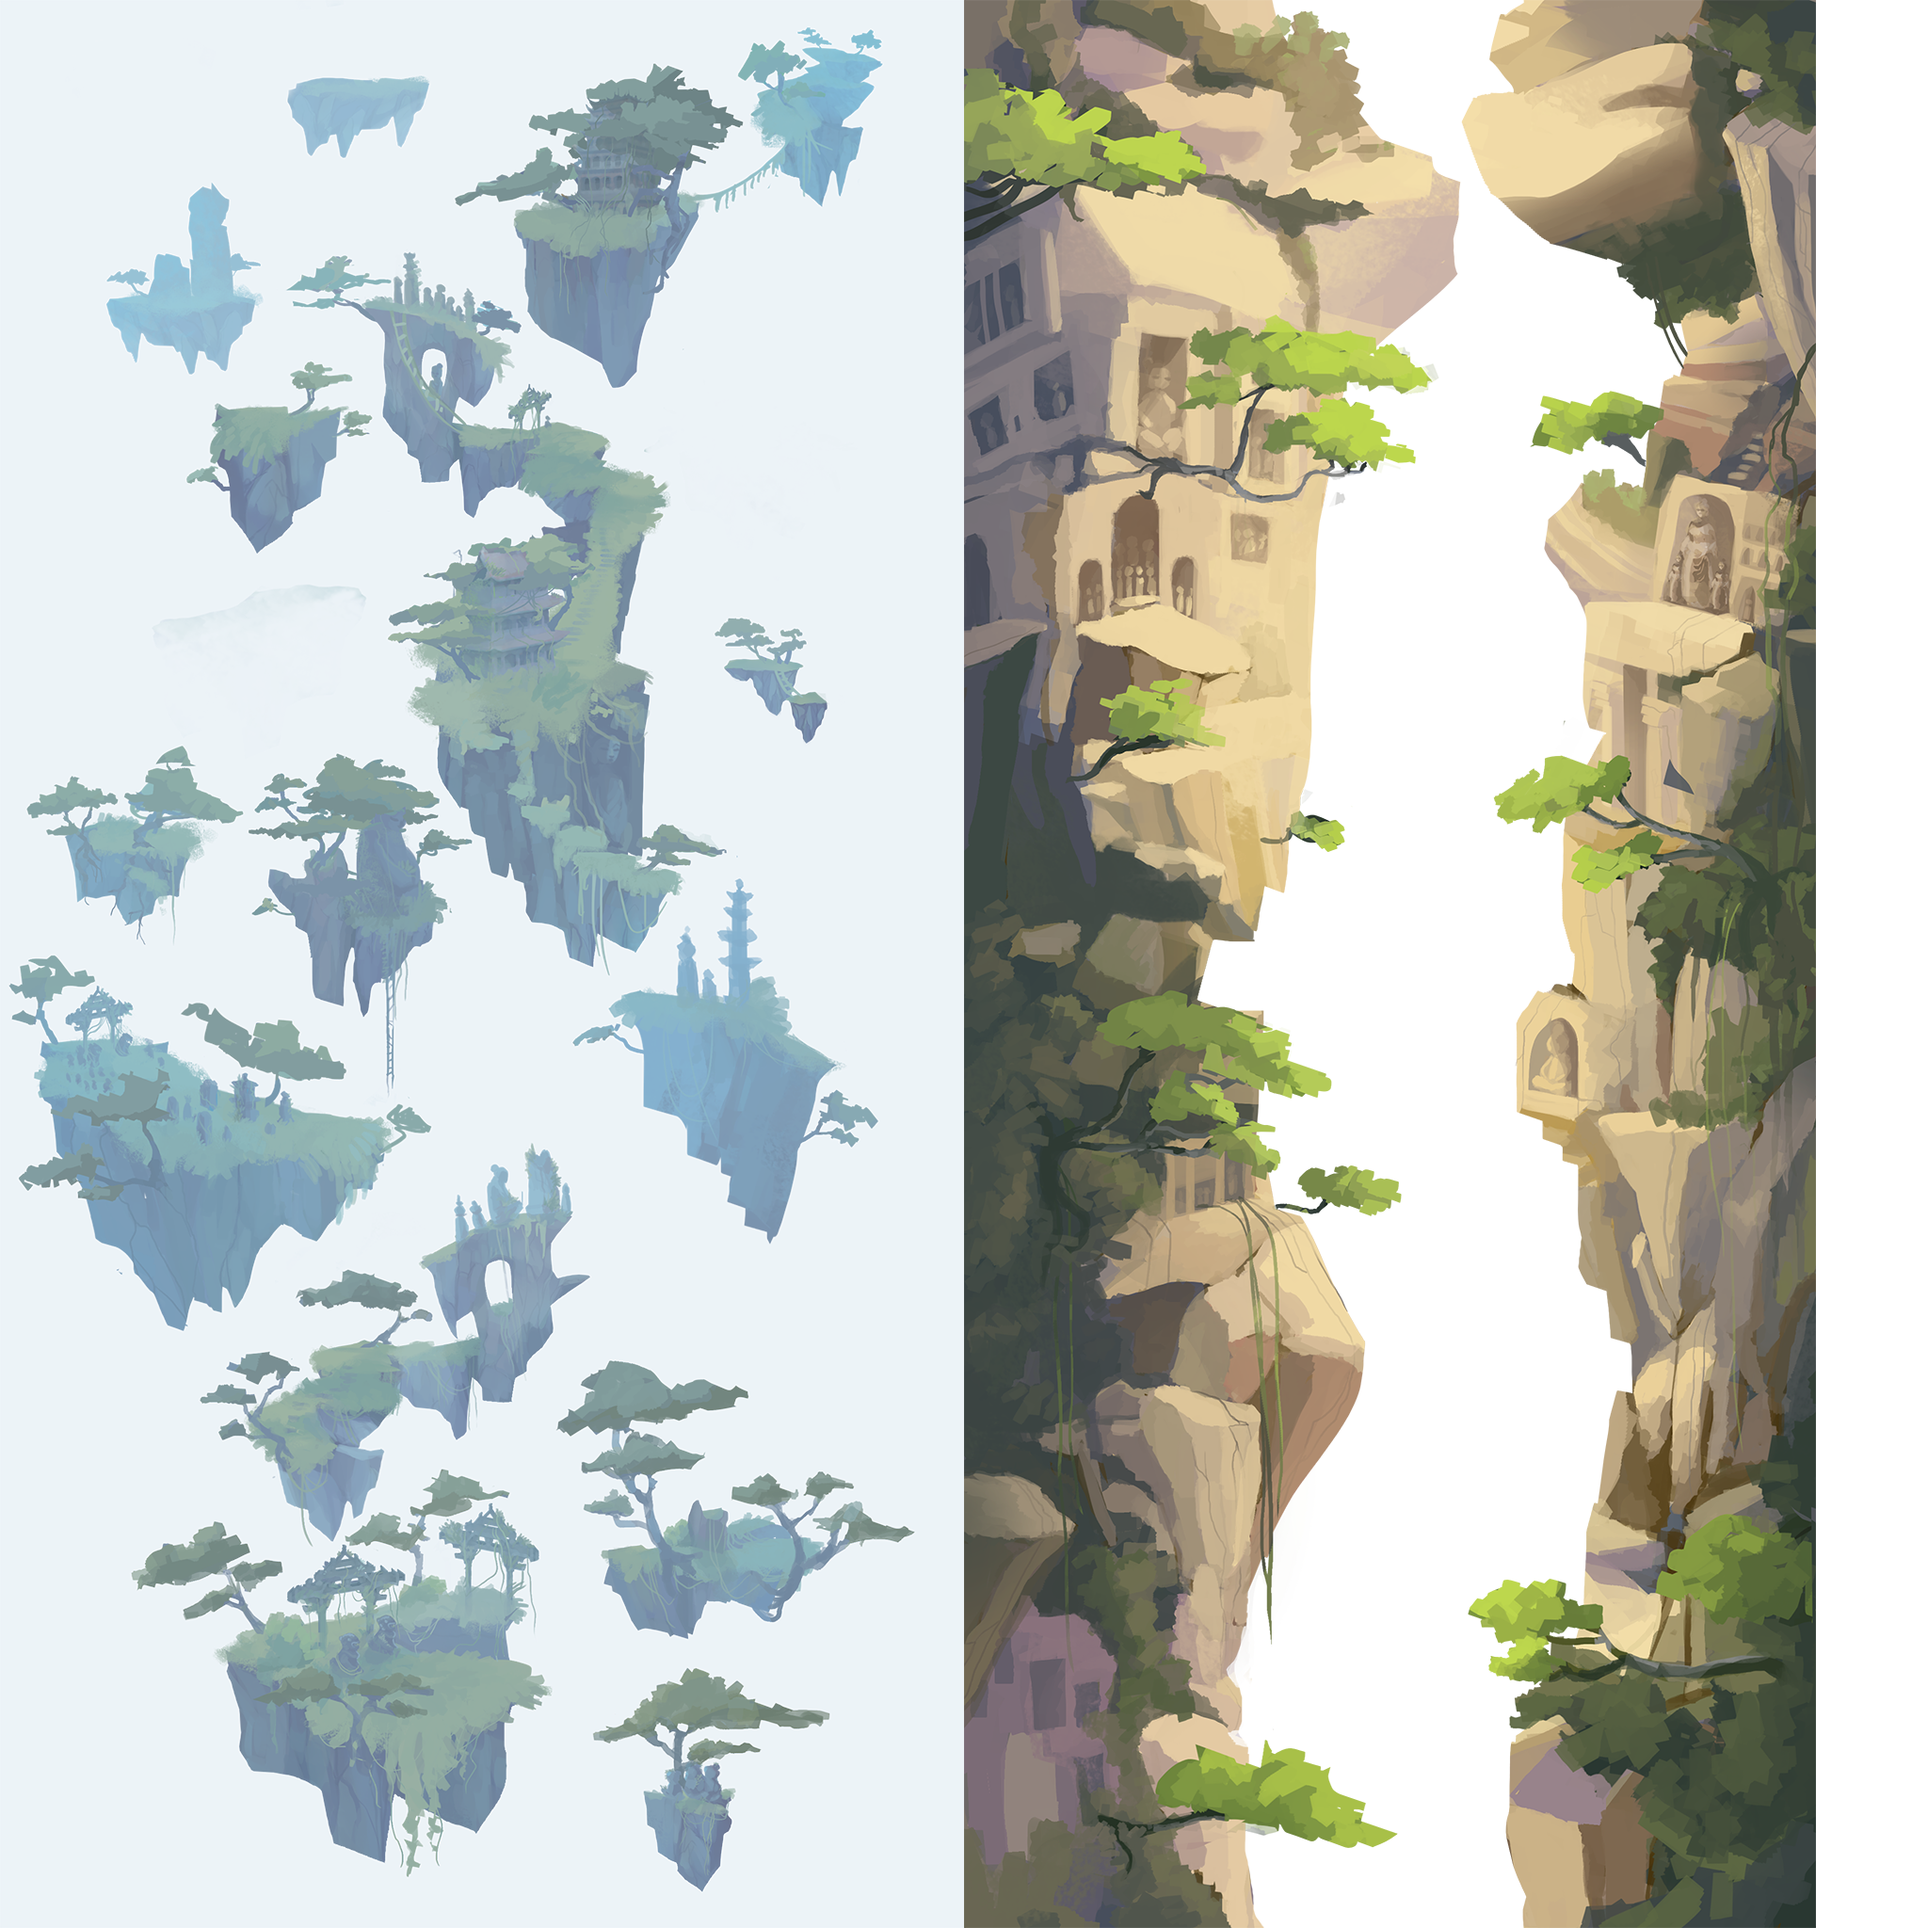
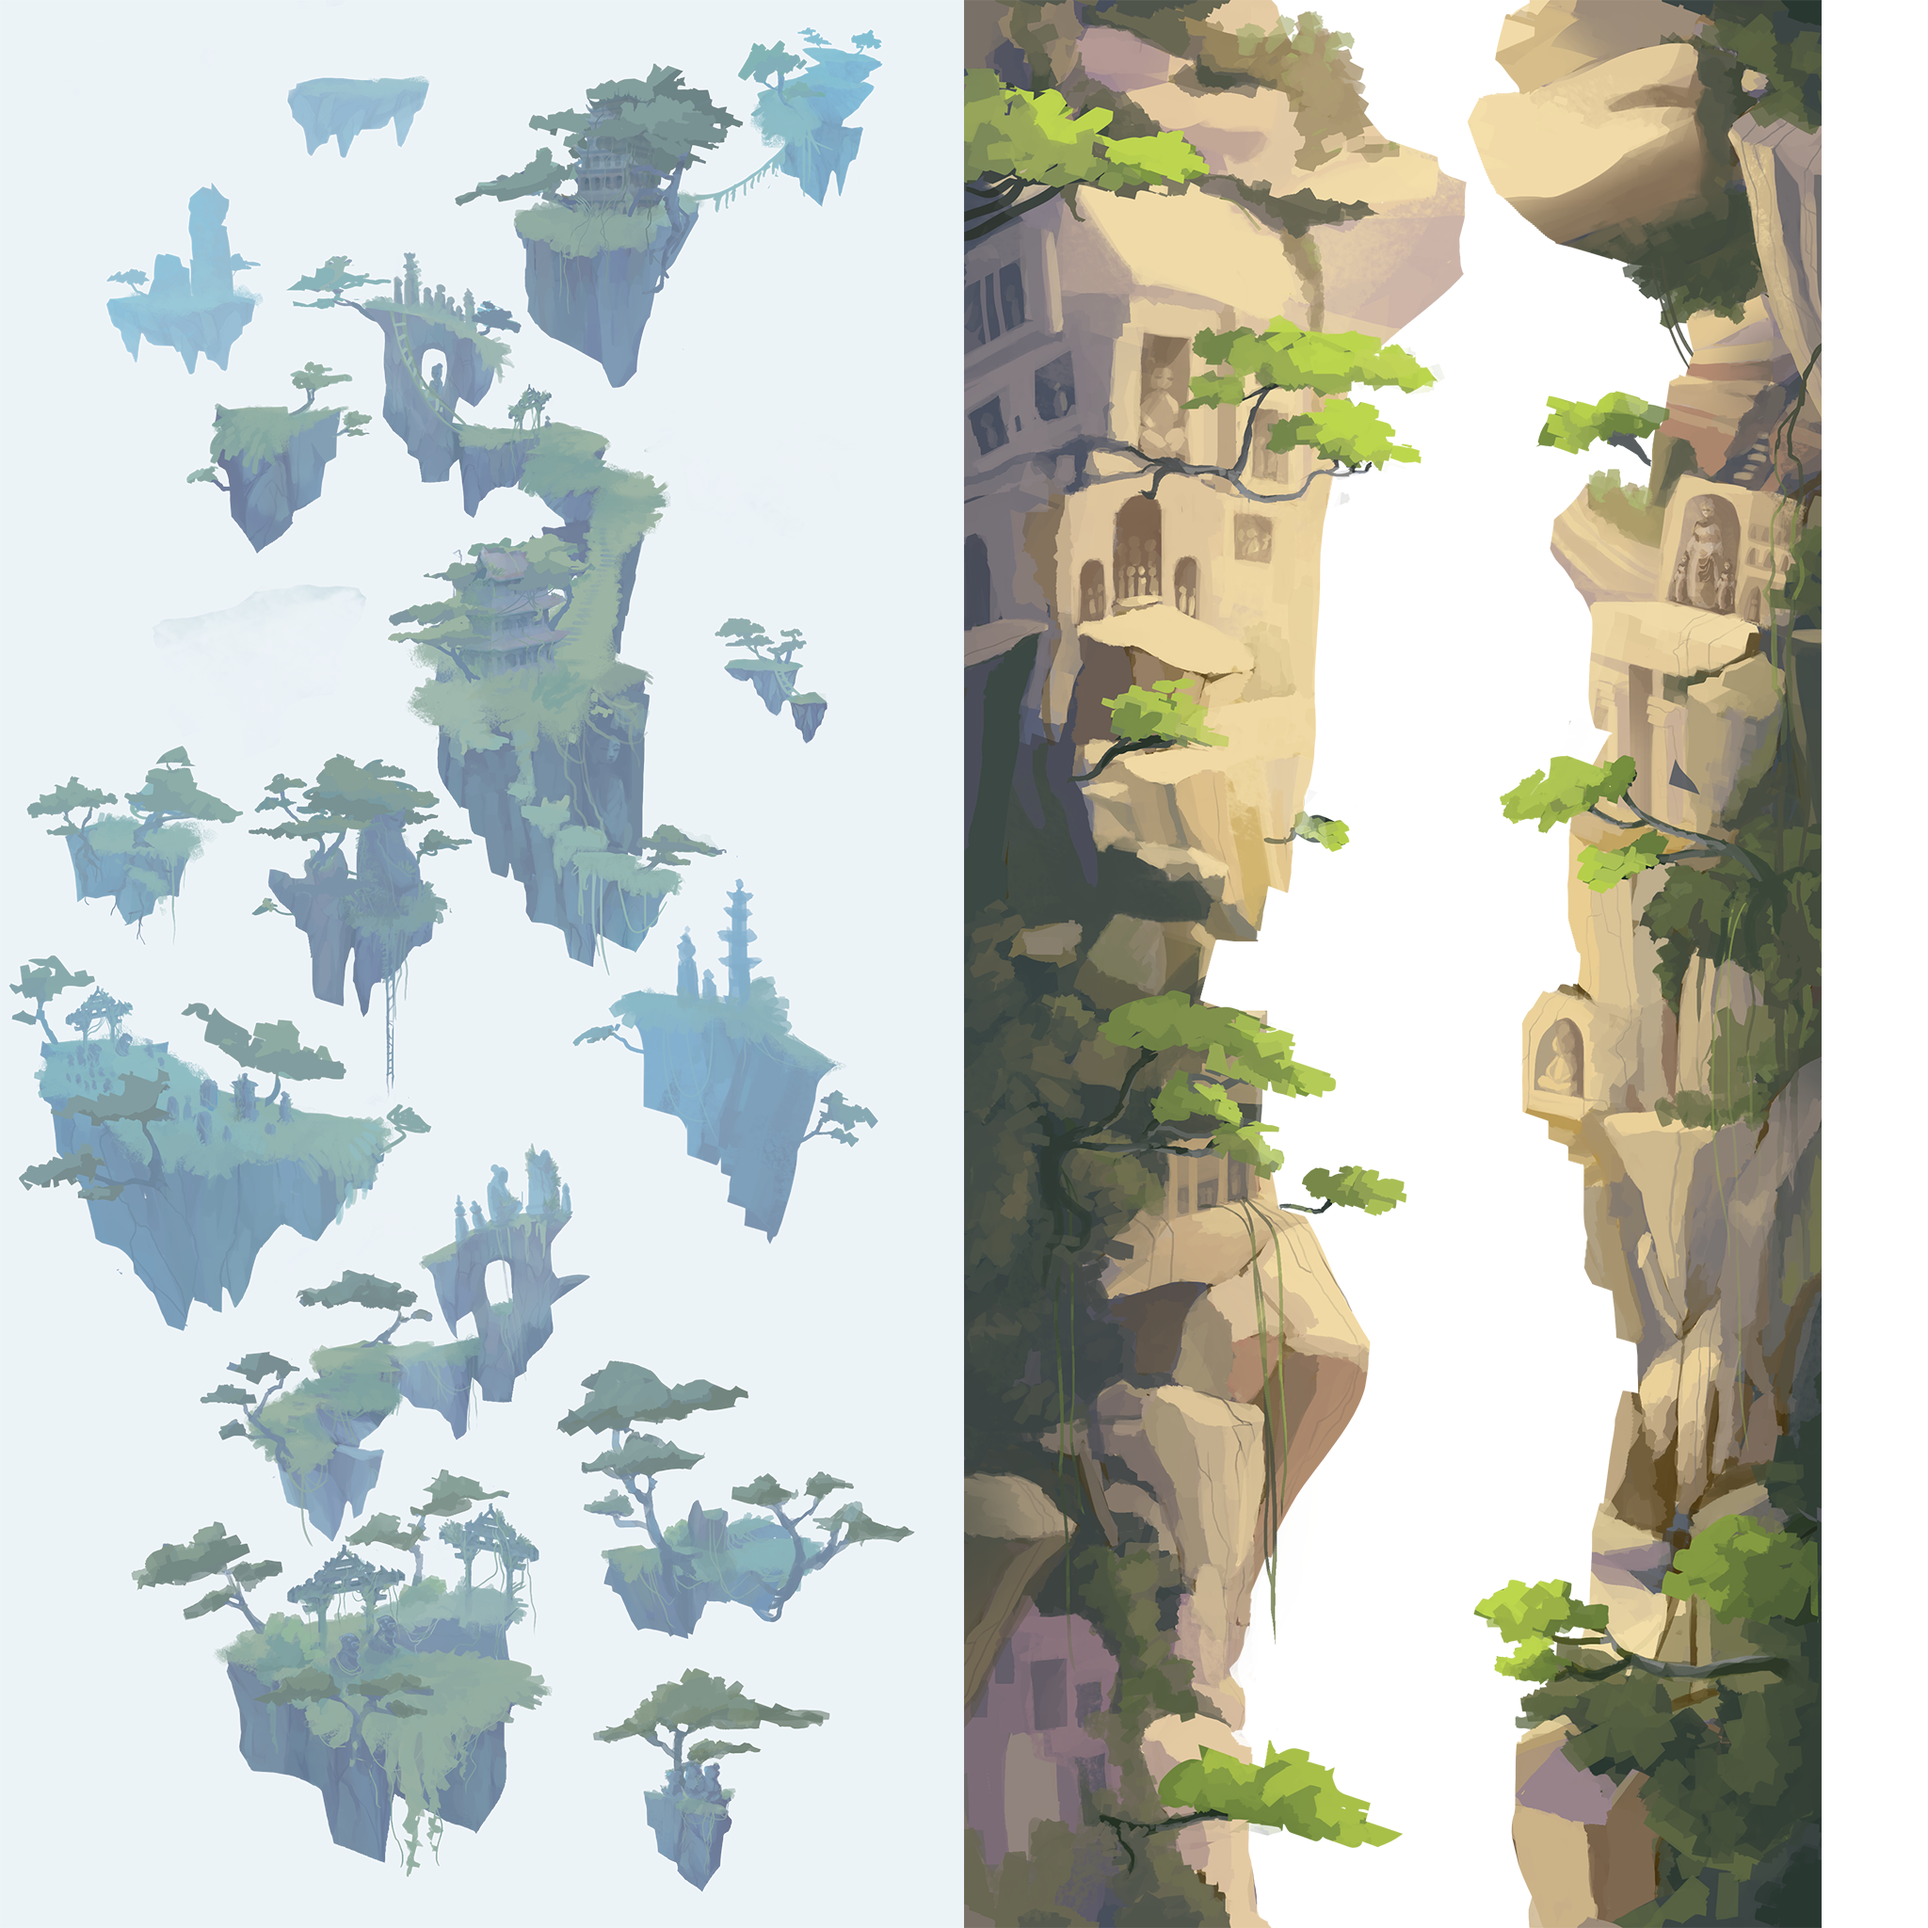
neu underwater assets

diff --git a/Assets/Scripts/Game/bg/BGWater.cs b/Assets/Scripts/Game/bg/BGWater.cs
@@ -94,80 +94,58 @@ public class BGWater : SPGameUpdateable, CameraRenderHookDelegate, SPNodeHierarc
 		_root.add_child(_surf_ele_1);
 
 		// ----
-
-		SPParallaxScrollSprite near_cliff_left = SPParallaxScrollSprite.cons(
-			RTex.BG_NUNDERWATER_BG,
-			FileCache.inst().get_texrect(RTex.BG_NUNDERWATER_BG,"underwater_bg_front_cliff_left.png"),
-			new Vector2(1,1),
-			new Vector3(-520,0,125)
-		);
-		near_cliff_left.set_uv_y_size(2);
-		near_cliff_left._img.set_manual_sort_z_order(GameAnchorZ.BGWater_BG_ELE1);
-		near_cliff_left._img.set_name("near_cliff_left");
-		near_cliff_left._img.gameObject.layer = RLayer.get_layer(RLayer.UNDERWATER_ELEMENTS);
-		_root.add_child(near_cliff_left._img);
-
-		SPParallaxScrollSprite near_cliff_right = SPParallaxScrollSprite.cons(
-			RTex.BG_NUNDERWATER_BG,
-			FileCache.inst().get_texrect(RTex.BG_NUNDERWATER_BG,"underwater_bg_front_cliff_right.png"),
-			new Vector2(1,1),
-			new Vector3(520,0,125)
-		);
-		near_cliff_right.set_uv_y_size(2);
-		near_cliff_right._img.set_manual_sort_z_order(GameAnchorZ.BGWater_BG_ELE1);
-		near_cliff_right._img.set_name("near_cliff_right");
-		near_cliff_right._img.gameObject.layer = RLayer.get_layer(RLayer.UNDERWATER_ELEMENTS);
-		_root.add_child(near_cliff_right._img);
-
+		
 		SPParallaxScrollSprite back_cliff_left = SPParallaxScrollSprite.cons(
-			RTex.BG_NUNDERWATER_BG,
-			FileCache.inst().get_texrect(RTex.BG_NUNDERWATER_BG,"underwater_bg_back_cliff_left.png"),
-			new Vector2(1,1),
-			new Vector3(-500,0,500)
+			RTex.BG_NUNDERWATER_BG_2,
+			FileCache.inst().get_texrect(RTex.BG_NUNDERWATER_BG_2,"underwater_bg_front_cliff.png"),
+			new Vector2(1.5f,1.5f),
+			new Vector3(0,0,300)
 		);
 		back_cliff_left.set_uv_y_size(2.5f);
-		back_cliff_left._img.set_manual_sort_z_order(GameAnchorZ.BGWater_BG_ELE2);
+		back_cliff_left._img.set_manual_sort_z_order(GameAnchorZ.BGWater_BG_ELE1);
 		back_cliff_left._img.set_name("back_cliff_left");
 		back_cliff_left._img.gameObject.layer = RLayer.get_layer(RLayer.UNDERWATER_ELEMENTS);
 		_root.add_child(back_cliff_left._img);
-
-		SPParallaxScrollSprite back_cliff_right = SPParallaxScrollSprite.cons(
-			RTex.BG_NUNDERWATER_BG,
-			FileCache.inst().get_texrect(RTex.BG_NUNDERWATER_BG,"underwater_bg_back_cliff_right.png"),
-			new Vector2(1,1),
-			new Vector3(500,0,500)
+		
+		SPParallaxScrollSprite underwater_bg_mid_cliff = SPParallaxScrollSprite.cons(
+			RTex.BG_NUNDERWATER_BG_2,
+			FileCache.inst().get_texrect(RTex.BG_NUNDERWATER_BG_2,"underwater_bg_mid_cliff.png"),
+			new Vector2(1.75f,1.75f),
+			new Vector3(0,0,750)
 		);
-		back_cliff_right.set_uv_y_size(2.5f);
-		back_cliff_right._img.set_manual_sort_z_order(GameAnchorZ.BGWater_BG_ELE2);
-		back_cliff_right._img.set_name("back_cliff_right");
-		back_cliff_right._img.gameObject.layer = RLayer.get_layer(RLayer.UNDERWATER_ELEMENTS);
-		_root.add_child(back_cliff_right._img);
-
-		SPParallaxScrollSprite far_bg = SPParallaxScrollSprite.cons(
-			RTex.BG_NUNDERWATER_BG,
-			FileCache.inst().get_texrect(RTex.BG_NUNDERWATER_BG,"underwater_far_bg.png"),
-			new Vector2(1.5f,1.5f),
-			new Vector3(0,0,1046)
+		underwater_bg_mid_cliff.set_uv_y_size(2.5f);
+		underwater_bg_mid_cliff._img.set_manual_sort_z_order(GameAnchorZ.BGWater_BG_ELE2);
+		underwater_bg_mid_cliff._img.set_name("underwater_bg_mid_cliff");
+		underwater_bg_mid_cliff._img.gameObject.layer = RLayer.get_layer(RLayer.UNDERWATER_ELEMENTS);
+		_root.add_child(underwater_bg_mid_cliff._img);
+		
+		SPParallaxScrollSprite underwater_bg_far_1 = SPParallaxScrollSprite.cons(
+			RTex.BG_NUNDERWATER_BG_1,
+			FileCache.inst().get_texrect(RTex.BG_NUNDERWATER_BG_1,"underwater_bg_far_1.png"),
+			new Vector2(2.5f,2.5f),
+			new Vector3(0,0,1700)
 		);
-		far_bg.set_uv_y_size(3f);
-		far_bg._img.set_manual_sort_z_order(GameAnchorZ.BGWater_BG_ELE3);
-		far_bg._img.set_name("far_bg");
-		far_bg._img.gameObject.layer = RLayer.get_layer(RLayer.UNDERWATER_ELEMENTS);
-		_root.add_child(far_bg._img);
+		underwater_bg_far_1.set_uv_y_size(3f);
+		underwater_bg_far_1._img.set_manual_sort_z_order(GameAnchorZ.BGWater_BG_ELE3);
+		underwater_bg_far_1._img.set_name("underwater_bg_far_1");
+		underwater_bg_far_1._img.gameObject.layer = RLayer.get_layer(RLayer.UNDERWATER_ELEMENTS);
+		_root.add_child(underwater_bg_far_1._img);
 
-		SPParallaxScrollSprite back_bg = SPParallaxScrollSprite.cons(
-			RTex.BG_NUNDERWATER_BG,
-			FileCache.inst().get_texrect(RTex.BG_NUNDERWATER_BG,"underwater_bg.png"),
-			new Vector2(1.5f,1.5f),
-			new Vector3(0,0,2046)
+		SPParallaxScrollSprite underwater_bg_far_2 = SPParallaxScrollSprite.cons(
+			RTex.BG_NUNDERWATER_BG_1,
+			FileCache.inst().get_texrect(RTex.BG_NUNDERWATER_BG_1,"underwater_bg_far_2.png"),
+			new Vector2(3f,3f),
+			new Vector3(0,0,2500)
 		);
-		back_bg.set_uv_y_size(3f);
-		back_bg._img.set_manual_sort_z_order(GameAnchorZ.BGWater_BG_ELE4);
-		back_bg._img.set_name("back_bg");
-		back_bg._img.gameObject.layer = RLayer.get_layer(RLayer.UNDERWATER_ELEMENTS);
-		_root.add_child(back_bg._img);
+		underwater_bg_far_2.set_uv_y_size(3f);
+		underwater_bg_far_2._img.set_manual_sort_z_order(GameAnchorZ.BGWater_BG_ELE4);
+		underwater_bg_far_2._img.set_name("underwater_bg_far_2");
+		underwater_bg_far_2._img.gameObject.layer = RLayer.get_layer(RLayer.UNDERWATER_ELEMENTS);
+		_root.add_child(underwater_bg_far_2._img);
+		
 
-		_underwater_scroll_elements = new List<SPParallaxScrollSprite>() { near_cliff_left, near_cliff_right, back_cliff_left, back_cliff_right, far_bg, back_bg };
+		_underwater_scroll_elements = new List<SPParallaxScrollSprite>() { back_cliff_left, underwater_bg_mid_cliff, underwater_bg_far_1, underwater_bg_far_2 };
+			/*near_cliff_left, near_cliff_right, back_cliff_left, back_cliff_right, far_bg, back_bg };*/
 
 
 		// -------

diff --git a/Assets/Scripts/UnityUtil/TextureResource.cs b/Assets/Scripts/UnityUtil/TextureResource.cs
@@ -23,7 +23,8 @@ public class RTex {
 	public static string BG_WATER_TOP_WATERLINEGRAD = "background/waterline_tex/bg_water_top_waterlinegrad";
 	public static string BG_WATER_BOTTOM_SURFACEGRAD = "background/waterline_tex/bg_water_bottom_surfacegrad";
 
-	public static string BG_NUNDERWATER_BG = "background/nunderwater/nunderwater_bg";
+	public static string BG_NUNDERWATER_BG_1 = "background/nunderwater/nunderwater_bg";
+	public static string BG_NUNDERWATER_BG_2 = "background/nunderwater/nunderwater_bg_2";
 	public static string BG_NUNDERWATER_TEMPLE = "background/nunderwater/nunderwater_temple";
 	public static string BG_NUNDERWATER_FADE = "background/nunderwater/nunderwater_fade";
 	

diff --git a/Assets/Scripts/Game/core/GameEngineScene.cs b/Assets/Scripts/Game/core/GameEngineScene.cs
@@ -68,9 +68,9 @@ public class GameEngineScene : SPScene {
 		_root.add_child(_particle_root);
 		_particles = SPParticleSystem<SPGameEngineParticle>.cons();
 		
-		this.push_game_state(OnGroundGameState.cons(this));
+		//this.push_game_state(OnGroundGameState.cons(this));
 		//this.push_game_state(InAirGameState.cons(this));
-		//this.push_game_state(DiveGameState.cons(this));
+		this.push_game_state(DiveGameState.cons(this));
 		
 		return this;
 	}

diff --git a/Assets/Scripts/Game/state/DiveGameState.cs b/Assets/Scripts/Game/state/DiveGameState.cs
@@ -36,7 +36,7 @@ public class DiveGameState : GameStateBase {
 		_params._vel = new Vector2(0,-22);
 		_params._mode = Mode.TransitionIn;
 		_params._dashing = false;
-		_params._ground_depth = -5500;
+		_params._ground_depth = -10000;
 
 		g._bg_water.set_ground_depth(_params._ground_depth);
 

diff --git a/Assets/Scripts/GameMain.cs b/Assets/Scripts/GameMain.cs
@@ -15,6 +15,7 @@ public class GameMain : SPBaseBehavior {
 		
 	fish underwater implementation
 	kelsey underwater art
+	blur make manual
 	
 	ICEBOX--
 	_c_pos center should not be tied to camera
